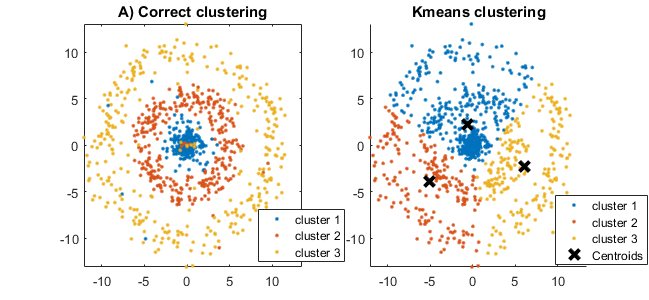
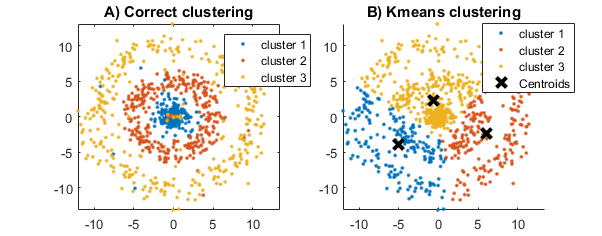
gorgous knn

diff --git a/assignement3/kmeans_gmm.m b/assignement3/kmeans_gmm.m
@@ -1,0 +1,128 @@
+clear; close all; clc;
+load('rings.mat');
+xrange = [min(X(:,1)) max(X(:,1))+2];
+yrange = [min(X(:,2)) max(X(:,2))];
+%%
+figure; subplot(1,3,1);
+plot(X(Y==0,1),X(Y==0,2),'.','MarkerSize',7);
+hold on
+plot(X(Y==1,1),X(Y==1,2),'.','MarkerSize',7);
+plot(X(Y==2,1),X(Y==2,2),'.','MarkerSize',7);
+hold off
+legend('1', '2','3'); xlim(xrange); ylim(yrange);
+title 'A) Correct clustering'; 
+%% apply k-means with three centers 1
+num = 3;
+[idx,C] = kmeans(X,num,'Distance','sqeuclidean','Replicates',100);
+subplot(1,3,2);
+hold on
+
+h1 = gscatter(X(:,1),X(:,2),idx);
+
+x1 = xrange(1):0.05:xrange(2);
+x2 = yrange(1):0.05:yrange(2);
+[x1G,x2G] = meshgrid(x1,x2);
+XGrid = [x1G(:),x2G(:)]; % Defines a fine grid on the plot
+idx2Region = kmeans(XGrid,num,'MaxIter',1,'Start',C);
+h2 = gscatter(XGrid(:,1),XGrid(:,2),idx2Region,[h1(1).Color*0.75 - 0.5*(h1(1).Color - 1);h1(2).Color*0.75 - 0.5*(h1(2).Color - 1);h1(3).Color*0.75 - 0.5*(h1(3).Color - 1)],'..');
+uistack(h2,'bottom');
+
+plot(C(:,1),C(:,2),'kx','MarkerSize',10,'LineWidth',3)
+legend('1', '2','3'); xlim(xrange); ylim(yrange);
+title 'B) Kmeans clustering'
+hold off
+%% GMM
+k = 3; % Number of GMM components
+options = statset('MaxIter',1000);
+
+%Create a 2-D grid
+d = 500; % Grid length
+x1 = linspace(min(X(:,1))-2, max(X(:,1))+2, d);
+x2 = linspace(min(X(:,2))-2, max(X(:,2))+2, d);
+[x1grid,x2grid] = meshgrid(x1,x2);
+X0 = [x1grid(:) x2grid(:)];
+
+threshold = sqrt(chi2inv(0.99,2));
+gmfit = fitgmdist(X,k,'CovarianceType','diagonal','SharedCovariance',false,'Options',options); % Fitted GMM
+clusterX = cluster(gmfit,X); % Cluster index 
+mahalDist = mahal(gmfit,X0); % Distance from each grid point to each GMM component
+
+% Draw ellipsoids over each GMM component and show clustering result.
+subplot(1,3,3);
+h1 = gscatter(X(:,1),X(:,2),clusterX);
+hold on
+    for m = 1:k
+        idx = mahalDist(:,m)<=threshold;
+        Color = h1(m).Color*0.75 - 0.5*(h1(m).Color - 1);
+        h2 = plot(X0(idx,1),X0(idx,2),'.','Color',Color,'MarkerSize',1);
+        uistack(h2,'bottom');
+    end    
+plot(gmfit.mu(:,1),gmfit.mu(:,2),'kx','LineWidth',2,'MarkerSize',10)
+title('C) Gaussian Mixture Model')
+legend(h1,{'1','2','3'});  xlim(xrange); ylim(yrange);
+hold off
+%% Preprocessing
+processData = sqrt(X(:,1).^2+X(:,2).^2);
+%%
+figure; subplot(1,3,1);
+plot(processData(Y==0),'.','MarkerSize',7);
+hold on
+plot(processData(Y==1),'.','MarkerSize',7);
+plot(processData(Y==2),'.','MarkerSize',7);
+hold off
+legend('1', '2','3'); xlabel('index'); ylabel('radius');
+title 'A) Preprocessed data'; 
+%% apply k-means with three centers 1
+num = 3;
+[idx,C] = kmeans(processData,num,'Distance','sqeuclidean','Replicates',100);
+subplot(1,3,2);
+hold on
+
+h1 = gscatter(X(:,1),X(:,2),idx);
+
+x1 = xrange(1):0.05:xrange(2);
+x2 = yrange(1):0.05:yrange(2);
+[x1G,x2G] = meshgrid(x1,x2);
+XGrid = [x1G(:),x2G(:)]; % Defines a fine grid on the plot
+idx2Region = kmeans(sqrt(XGrid(:,1).^2+XGrid(:,2).^2),num,'MaxIter',1,'Start',C);
+h2 = gscatter(XGrid(:,1),XGrid(:,2),idx2Region,[h1(1).Color*0.75 - 0.5*(h1(1).Color - 1);h1(2).Color*0.75 - 0.5*(h1(2).Color - 1);h1(3).Color*0.75 - 0.5*(h1(3).Color - 1)],'..');
+uistack(h2,'bottom');
+
+plot(C*cos(0:0.01:2*pi),C*sin(0:0.01:2*pi), '.k', 'MarkerSize', 1);
+legend('1', '2','3'); xlim(xrange); ylim(yrange);
+title 'B) Kmeans clustering'
+hold off
+
+%% GMM on preprocessed
+k = 3; % Number of GMM components
+options = statset('MaxIter',1000);
+Sigma = {'diagonal'};
+SharedCovariance = {false};
+SCtext = {'false'};
+
+%Create a 2-D grid
+d = 500; % Grid length
+x1 = linspace(min(X(:,1))-2, max(X(:,1))+2, d);
+x2 = linspace(min(X(:,2))-2, max(X(:,2))+2, d);
+[x1grid,x2grid] = meshgrid(x1,x2);
+X0 = [x1grid(:) x2grid(:)];
+
+threshold = sqrt(chi2inv(0.99,2));
+gmfit = fitgmdist(processData,k,'CovarianceType','diagonal','SharedCovariance',false,'Options',options); % Fitted GMM
+clusterX = cluster(gmfit,processData); % Cluster index 
+mahalDist = mahal(gmfit,sqrt(X0(:,1).^2+X0(:,2).^2)); % Distance from each grid point to each GMM component
+
+% Draw ellipsoids over each GMM component and show clustering result.
+subplot(1,3,3);
+h1 = gscatter(X(:,1),X(:,2),clusterX);
+hold on
+    for m = 1:k
+        idx = mahalDist(:,m)<=threshold;
+        Color = h1(m).Color*0.75 - 0.5*(h1(m).Color - 1);
+        h2 = plot(X0(idx,1),X0(idx,2),'.','Color',Color,'MarkerSize',1);
+        uistack(h2,'bottom');
+    end
+plot(gmfit.mu*cos(0:0.01:2*pi),gmfit.mu*sin(0:0.01:2*pi), '.k', 'MarkerSize', 1);
+title('C) Gaussian Mixture Model')
+legend(h1,{'1','2','3'});  xlim(xrange); ylim(yrange);
+hold off
